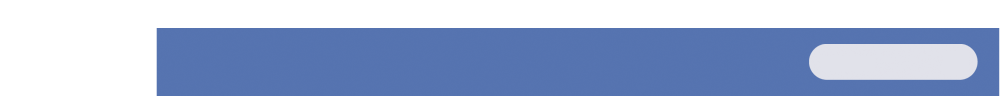
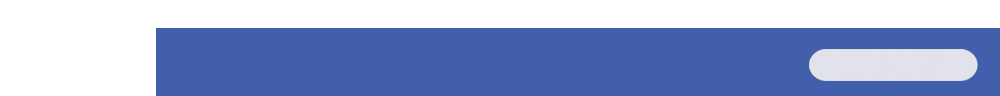
1-18 test 11
1-18 test 11

Changed region(s): [[0.806, 0.3125, 1.0, 1.0]]

diff --git a/css/style-myspace.css b/css/style-myspace.css
@@ -75,6 +75,9 @@ body{
 	margin-top: -10px;
 	float: right;
 }
+#header #logo3 a{
+	color: #e0e1e9;
+}
 
 #header #logo4{
 	position: relative;
@@ -137,7 +140,7 @@ body{
 	width: 96px;
 	height: 72px;
 	margin-left: 4px;
-	margin-top: -24px;
+	margin-top: -26px;
 	text-align: center;
 	float: left;
 }
@@ -145,10 +148,10 @@ body{
 	position: absolute;
 	width: 96px;
 	height: 20px;
-	top: 26px;
+	top: 32px;
 	text-align: center;
-	font-size: 18px;
-	color: #e0e1e9;
+	font-size: 14px;
+	color: #ffffff;
 	font-weight: bold;
 }
 #menu #menuinterface #divoptions-text6{
@@ -157,7 +160,7 @@ body{
 
 #menu .search-input2{
 	left: 648px;
-	top: -8px;
+	top: -5px;
 	width: 96px;
 	height: 22px;
 	position: absolute;
@@ -167,7 +170,7 @@ body{
 }
 #menu #menuinterface #searchpaw{
 	left: 760px;
-	top: -10px;
+	top: -7px;
 	position: absolute;
 	cursor: pointer;
 }
@@ -183,7 +186,7 @@ input:-moz-placeholder {
 #content{
 	position: relative;
 	width: 1000px;
-	margin-top: -32px;
+	margin-top: -30px;
 	padding: 0;
 }
 
@@ -952,7 +955,7 @@ input:-moz-placeholder {
 	width: 304px;
 	height: auto;
 	position: absolute;
-	border: 2px solid #c9cbcd;
+	border: 1.7px solid #c9cbcd;
 	border-radius: 16px;
 	background-color: #ffffff;
 }

diff --git a/css/style-news.css b/css/style-news.css
@@ -66,6 +66,9 @@ html, body{
 	margin-top: -10px;
 	float: right;
 }
+#header #logo3 a{
+	color: #e0e1e9;
+}
 
 #header #logo4{
 	position: relative;
@@ -128,7 +131,7 @@ html, body{
 	width: 96px;
 	height: 72px;
 	margin-left: 4px;
-	margin-top: -24px;
+	margin-top: -26px;
 	text-align: center;
 	float: left;
 }
@@ -136,10 +139,10 @@ html, body{
 	position: absolute;
 	width: 96px;
 	height: 20px;
-	top: 26px;
+	top: 32px;
 	text-align: center;
-	font-size: 18px;
-	color: #e0e1e9;
+	font-size: 14px;
+	color: #ffffff;
 	font-weight: bold;
 }
 #menu #menuinterface #divoptions-text3{
@@ -148,7 +151,7 @@ html, body{
 
 #menu .search-input2{
 	left: 648px;
-	top: -8px;
+	top: -5px;
 	width: 96px;
 	height: 22px;
 	position: absolute;
@@ -158,7 +161,7 @@ html, body{
 }
 #menu #menuinterface #searchpaw{
 	left: 760px;
-	top: -10px;
+	top: -7px;
 	position: absolute;
 	cursor: pointer;
 }
@@ -236,7 +239,7 @@ input:-moz-placeholder {
 	width: 224px;
 	height: auto;
 	position: absolute;
-	border: 2px solid #c9cbcd;
+	border: 1.7px solid #c9cbcd;
 	border-radius: 10px;
 	background-color: #ffffff;
 }

diff --git a/css/style-mainpage.css b/css/style-mainpage.css
@@ -64,7 +64,11 @@ html, body{
 	position: relative;
 	margin-right: 30px;
 	margin-top: -10px;
+	color: #e0e1e9;
 	float: right;
+}
+#header #logo3 a{
+	color: #e0e1e9;
 }
 
 #header #logo4{
@@ -128,7 +132,7 @@ html, body{
 	width: 96px;
 	height: 72px;
 	margin-left: 4px;
-	margin-top: -24px;
+	margin-top: -26px;
 	text-align: center;
 	float: left;
 }
@@ -136,10 +140,10 @@ html, body{
 	position: absolute;
 	width: 96px;
 	height: 20px;
-	top: 26px;
+	top: 32px;
 	text-align: center;
-	font-size: 18px;
-	color: #e0e1e9;
+	font-size: 14px;
+	color: #ffffff;
 	font-weight: bold;
 }
 #menu #menuinterface #divoptions-text1{
@@ -148,7 +152,7 @@ html, body{
 
 #menu .search-input2{
 	left: 648px;
-	top: -8px;
+	top: -5px;
 	width: 96px;
 	height: 22px;
 	position: absolute;
@@ -158,7 +162,7 @@ html, body{
 }
 #menu #menuinterface #searchpaw{
 	left: 760px;
-	top: -10px;
+	top: -7px;
 	position: absolute;
 	cursor: pointer;
 }

diff --git a/index.php b/index.php
@@ -48,7 +48,7 @@
 				<div id="logo3" class="leaderelements">
 				<?php
 					if($sign_in)
-						echo "<a href='logout.php'>退出登录</a>";
+						echo "<a href='logout.php'>退出</a>";
 					else
 						echo "<a href='login.php'>登录</a> | <a href='Register.php'>注册</a>";
 				?>

diff --git a/myspace.php b/myspace.php
@@ -75,7 +75,7 @@
 				<div id="logo3" class="leaderelements">
 				<?php
 					if($sign_in)
-						echo "<a href='logout.php'>退出登录</a>";
+						echo "<a href='logout.php'>退出</a>";
 					else
 						echo "<a href='login.php'>登录</a> | <a href='Register.php'>注册</a>";
 				?>

diff --git a/news.php b/news.php
@@ -54,7 +54,7 @@
 				<div id="logo3" class="leaderelements">
 				<?php
 					if($sign_in)
-						echo "<a href='logout.php'>退出登录</a>";
+						echo "<a href='logout.php'>退出</a>";
 					else
 						echo "<a href='login.php'>登录</a> | <a href='Register.php'>注册</a>";
 				?>
